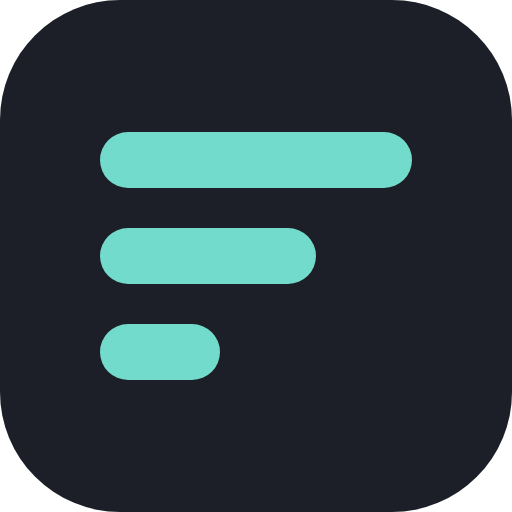
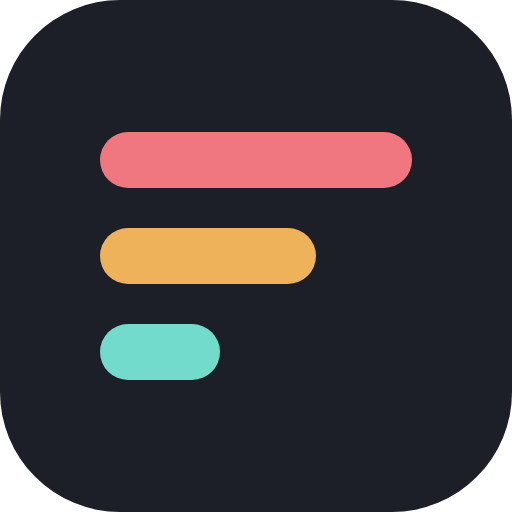
feat(site): color the Triage bars like triage tags
The two-tone wordmark didn't work on one word, and solid teal read as
flat. The word goes back to the text color, and the bars become red,
amber and teal, the colors of real triage tags. The icons match.

Changed region(s): [[0.1875, 0.25, 0.8125, 0.375], [0.1875, 0.4375, 0.625, 0.5625]]

diff --git a/site/index.html b/site/index.html
@@ -43,8 +43,8 @@
 
   header { position: sticky; top: 0; z-index: 100; height: 52px; display: flex; align-items: center; justify-content: space-between; padding: 0 20px;
     border-bottom: 1px solid var(--border); background: var(--header-bg); backdrop-filter: blur(16px) saturate(1.35); -webkit-backdrop-filter: blur(16px) saturate(1.35); }
-  .logo { display: flex; align-items: center; gap: 7px; color: var(--accent); font-size: 17px; font-weight: 760; letter-spacing: -.025em; }
-  .logo svg { width: 18px; height: 18px; fill: none; stroke: currentColor; stroke-width: 3; stroke-linecap: round; }
+  .logo { display: flex; align-items: center; gap: 7px; font-size: 17px; font-weight: 760; letter-spacing: -.025em; }
+  .logo svg { width: 18px; height: 18px; fill: none; stroke: var(--accent); stroke-width: 3; stroke-linecap: round; }
   .controls { display: flex; align-items: center; gap: 6px; }
   .updated { color: var(--text-muted); font-size: 12px; white-space: nowrap; margin-right: 4px; }
   @media (max-width: 410px) { .updated span { display: none; } }
@@ -199,7 +199,7 @@
 </head>
 <body>
 <header class="feed">
-  <a class="logo" href="/"><svg viewBox="0 0 24 24" aria-hidden="true"><path d="M3 5h18M3 12h11M3 19h4"/></svg>Triage</a>
+  <a class="logo" href="/"><svg viewBox="0 0 24 24" aria-hidden="true"><path stroke="#f0777f" d="M3 5h18"/><path stroke="#eeb25a" d="M3 12h11"/><path d="M3 19h4"/></svg>Triage</a>
   <div class="controls">
     <time class="updated" id="updated"></time>
     <a class="icon-btn" href="/rss.xml" title="RSS feed" aria-label="RSS feed">
